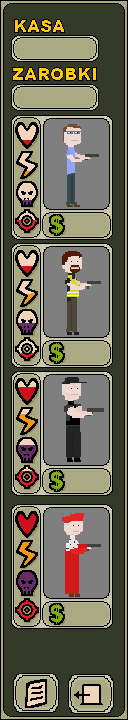
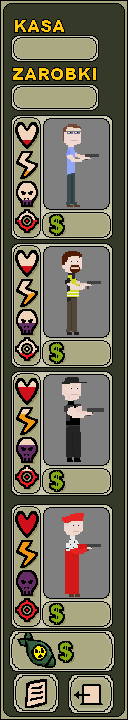
feat: przycisk bomby

Changed region(s): [[0.0625, 0.8556, 0.9062, 0.9472]]

diff --git a/project/main.cpp b/project/main.cpp
@@ -112,6 +112,7 @@ int main()
         Button jaguar2Button(12, 243, 100, 125, 30);
         Button jaguar3Button(12, 371, 100, 125, 60);
         Button jaguar4Button(12, 504, 100, 125, 120);
+        Button bombaButton(9, 630, 106, 42, 15);
 
         sf::Text text(mediumGothic);
         text.setCharacterSize(18);
@@ -888,6 +889,7 @@ int main()
             jaguar2Button.update(mousePos, money);
             jaguar3Button.update(mousePos, money);
             jaguar4Button.update(mousePos, money);
+            bombaButton.update(mousePos, money);
 
            
 
@@ -903,6 +905,7 @@ int main()
             jaguar2Button.draw(window);
             jaguar3Button.draw(window);
             jaguar4Button.draw(window);
+            bombaButton.draw(window);
 
             for (const auto& shooter : shooters)
             {
